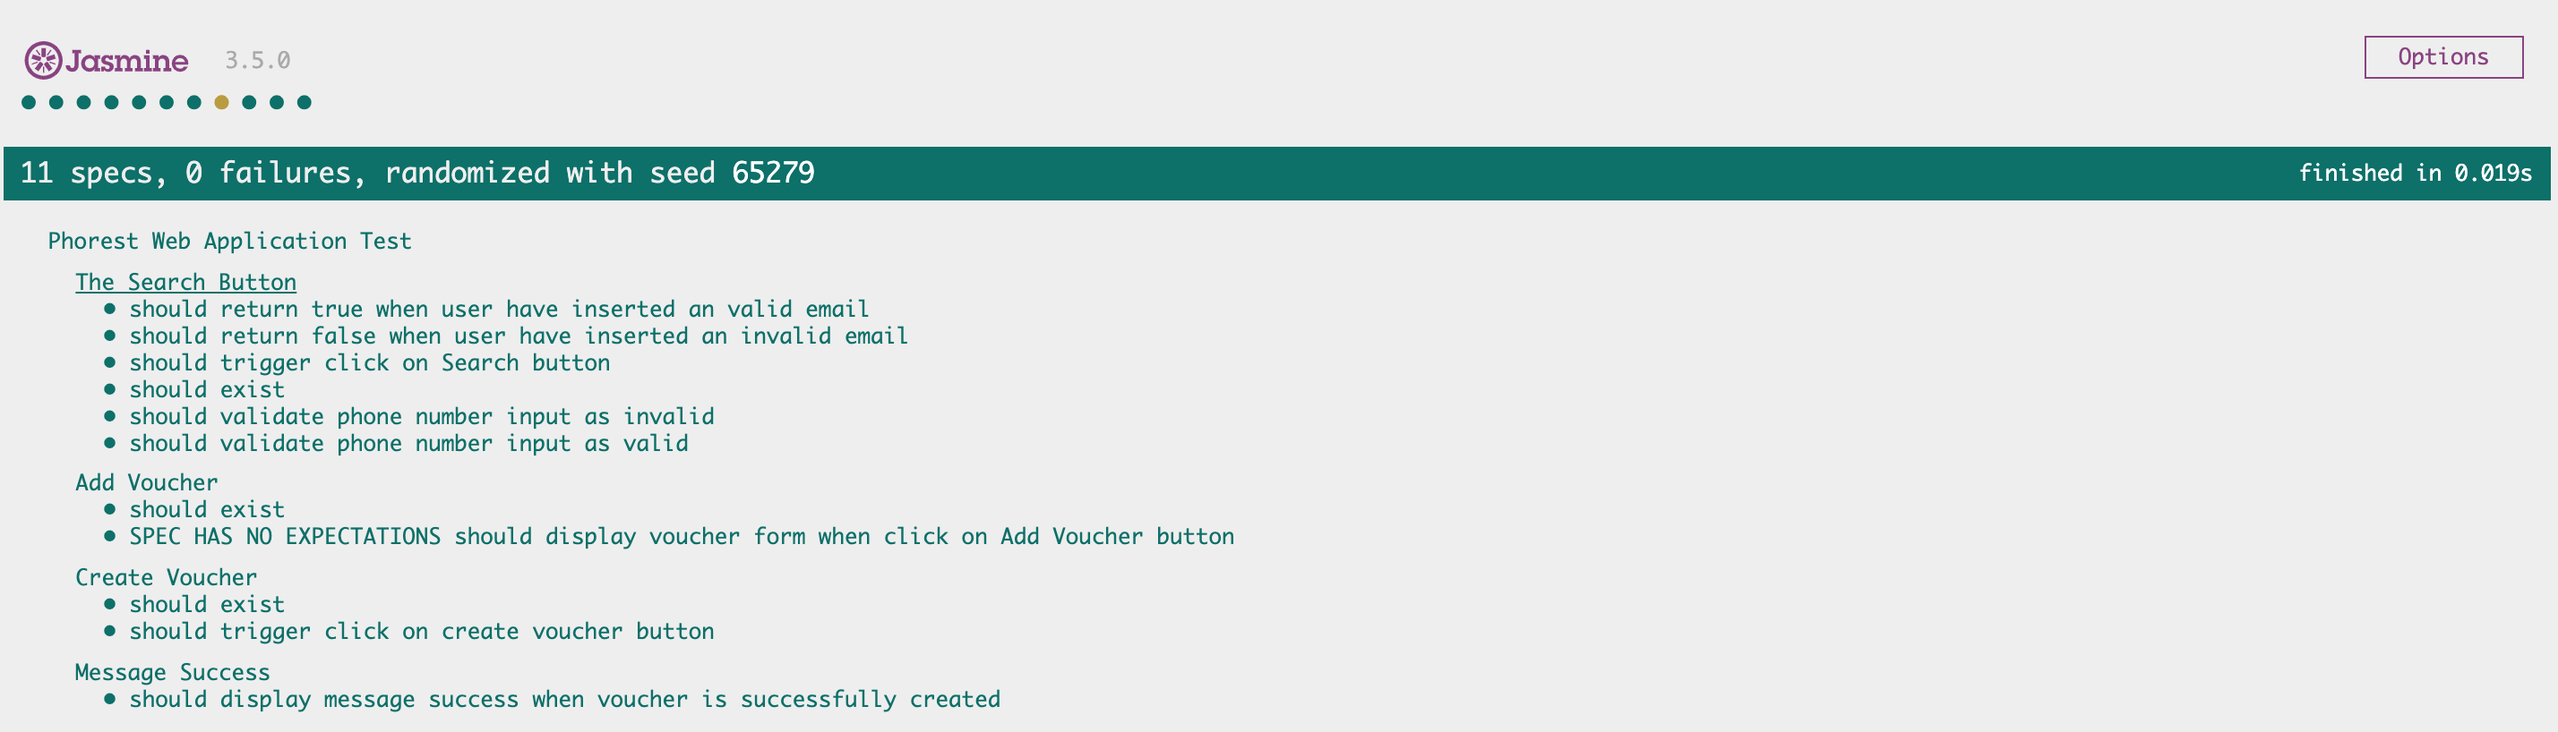
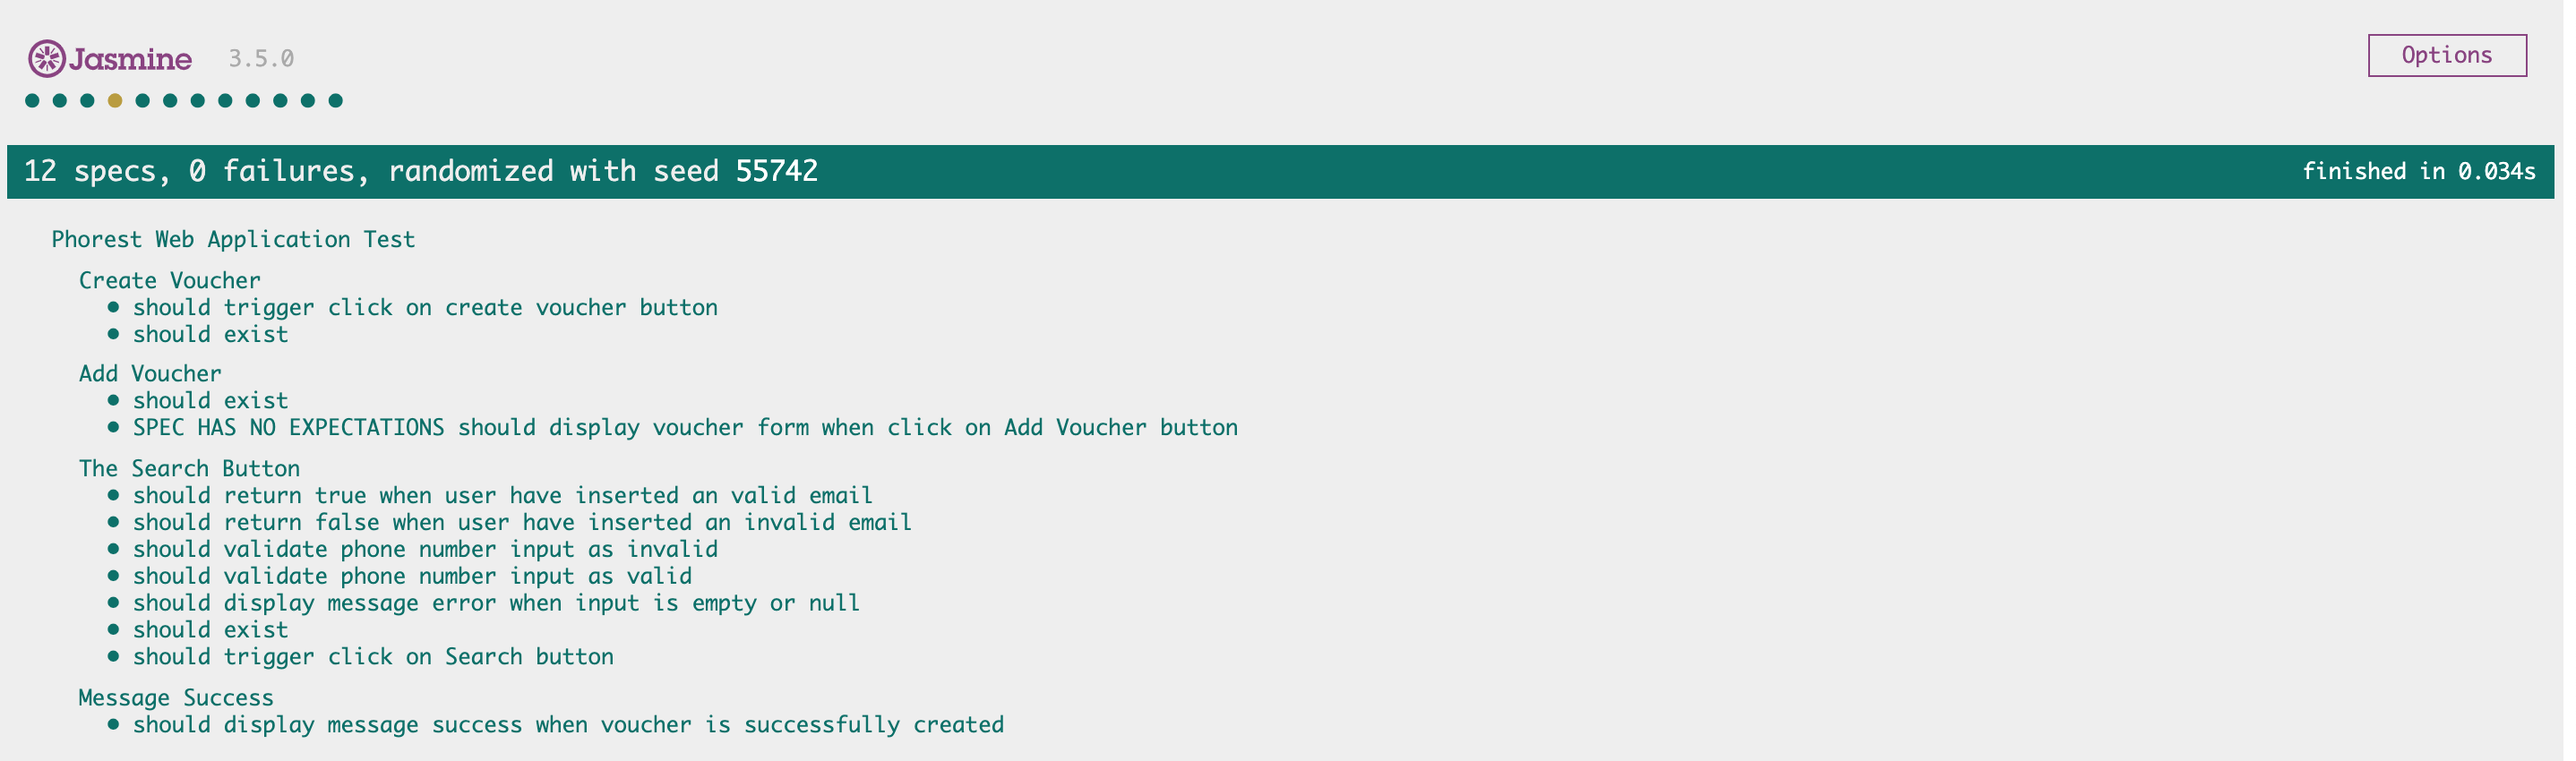
Set up env variable, clean up & refactor code, update readme

diff --git a/assets/js/main.js b/assets/js/main.js
@@ -1,6 +1,6 @@
-let url = `https://api-gateway-dev.phorest.com/third-party-api-server/api/business/eTC3QY5W3p_HmGHezKfxJw/client?`;
-let username = "global/cloud@apiexamples.com";
-let password = "VMlRo/eh+Xd8M~l";
+let url = env.url;
+let username = env.username;
+let password = env.password;
 
 //BTNS
 let btnSearch = document.getElementById("search_btn");
@@ -26,9 +26,10 @@ searchInput.addEventListener("keyup", (e) => {
 
 //SEARCH BUTTON
 btnSearch.addEventListener ('click', () => {
-    searchInputError.classList.add("d-none");
     let searchInputVal = searchInput.value;
     
+    resetForm();
+
     //check if input is empty
     checkIfEmpty(searchInputVal, searchInputError);
 
@@ -44,6 +45,7 @@ btnSearch.addEventListener ('click', () => {
         setTimeout(() => searchInputError.classList.add("d-none"), 4000);
         displayClients.classList.add("d-none");
     }
+
 });
 
 // ADD VOUCHER BUTTON
@@ -60,7 +62,7 @@ let displayFormVoucher = (name, branch, client) => {
         voucherForm.classList.remove("d-none");
         voucherForm.scrollIntoView();
     }
-}
+};
 
 //CREATE VOUCHER BUTTON
 btnCreateVoucher.addEventListener('click', () => {
@@ -85,6 +87,14 @@ btnCreateVoucher.addEventListener('click', () => {
     }
 });
 
+// RESET AND HIDE VOUCHE FORM ON SEACH
+let resetForm = () => {
+    if (!voucherForm.classList.contains("d-none")) {
+        voucherForm.classList.add("d-none");
+    }
+    voucherForm.reset();
+};
+
 //CHECK IF INPUT IS BLANk
 let checkIfEmpty = (text, el) => {
     if(text == "" || text == null ){
@@ -99,10 +109,10 @@ let checkIfEmpty = (text, el) => {
 let validateEmail = (email) => {
     const re = /^(([^<>()\[\]\\.,;:\s@"]+(\.[^<>()\[\]\\.,;:\s@"]+)*)|(".+"))@((\[[0-9]{1,3}\.[0-9]{1,3}\.[0-9]{1,3}\.[0-9]{1,3}\])|(([a-zA-Z\-0-9]+\.)+[a-zA-Z]{2,}))$/;
     return re.test(String(email).toLowerCase());
-}
+};
 
 //VALIDATE PHONE NUMBER ON INPUT
-let validatePhone = (field) => (field.match(/^\d/)) ? true : false
+let validatePhone = (field) => (field.match(/^\d/)) ? true : false;
 
 //DISPLAY MESSAGE SUCCESS
 let messageSuccess = () => {
@@ -115,7 +125,7 @@ let messageSuccess = () => {
     clientsContainer.remove();
     voucherContainer.remove();
     setTimeout(() => location.reload(), 6000);
-}
+};
 
 //GET LIST OF CLIENTS
 const populateClients = (resp) => {
@@ -151,7 +161,7 @@ let getAllData = (url) => {
         alert("Woops, there was an error making the request."); 
     };
     xhr.send();
-}
+};
 
 //POST REQUEST //GET VOUCHER API
 let createVoucher = (data) => {
@@ -168,4 +178,4 @@ let createVoucher = (data) => {
         alert("Woops, there was an error making the request."); 
     };
     xhr.send(data);
-}
+};

diff --git a/testing/automated/specs/specs.js b/testing/automated/specs/specs.js
@@ -26,18 +26,6 @@ describe("Phorest Web Application Test", () => {
 
     describe("The Search Button", () => {
 
-        beforeEach(() => {
-            $("#search_btn").click();
-            let searchInput = $("#search_btn").value;
-            let searchInputError = document.getElementById("search_input_error");
-            
-            if (searchInput == "" ||  searchInput == null) {
-                searchInputError.classList.add("d-none");
-                expect(searchInput).toHaveValue();
-                expect(searchInputError).toHaveClass("d-none");
-            } 
-        });
-
         it("should exist", () => {
             expect($("search_btn")).toBeDefined();
         }); 
@@ -49,6 +37,17 @@ describe("Phorest Web Application Test", () => {
             expect(spyEvent).toHaveBeenTriggered();
         });
      
+        it("should display message error when input is empty or null", () => {
+            $("#search_btn").click();
+            let searchInput = $("#search_btn").value;
+            let searchInputError = document.getElementById("search_input_error");
+            if (searchInput == "" ||  searchInput == null) {
+                searchInputError.classList.add("d-none");
+                expect(searchInput).toHaveValue();
+                expect(searchInputError).toHaveClass("d-none");
+            } 
+        });
+
         it("should return false when user have inserted an invalid email", () => {
             const invalidEmail = 'camila@';
             let resultEmail = validateEmail(invalidEmail);

diff --git a/index.html b/index.html
@@ -39,14 +39,14 @@
                             <th scope="col">Last Name</th>
                             <th scope="col">Mobile</th>
                             <th scope="col">Email</th>
-                            <th scope="col" class="th-voucher">Voucher</th>
+                            <th scope="col">Voucher</th>
                         </tr>
                         </thead>
                         <tbody id="info_clients">
                         </tbody>
                     </table>
                 </div>
-                <div id="add_voucher_error" class="w-75 mx-auto text-center alert alert-danger mt-5 d-none"><small>This voucher cannot be created!</small>
+                <div id="add_voucher_error" class="w-75 mx-auto text-center alert alert-danger mt-5 d-none"><small>The voucher for this user cannot be created!</small>
                 </div>
                 <input type="hidden" id="client_id" value="">
                 <input type="hidden" id="branch_id" value="">
@@ -88,9 +88,10 @@
                 <h6 class="align-content-center">&copy; Copyright</h6>
             </div>
         </footer>
-
-        <!-- JavaScript -->
+      
+        <!-- JavaScript Depedencies -->
         <script src="assets/js/moment.min.js"></script>
+        <script src="assets/js/config.js"></script>
         <script src="assets/js/main.js"></script>
     </body>
 </html>

diff --git a/assets/css/style.css b/assets/css/style.css
@@ -65,10 +65,6 @@ footer {
     margin: 80px 40px;
 }
 
-.th-voucher {
-    text-align: center;
-}
-
 /* ------------------------- Create Voucher */
 .form-container {
     border: 5px solid #c3afd0;
@@ -96,6 +92,11 @@ footer {
 
 .m150 {
     margin-bottom: 80px;
+}
+
+/* ------------------------- Override Bootstrap */
+.btn.disabled, .btn:disabled {
+    pointer-events: none;
 }
 
 /* ------------------------- media queries */

diff --git a/testing/automated/jasmine.html b/testing/automated/jasmine.html
@@ -11,9 +11,6 @@
     />
   </head>
   <body>
-    <!-- Your Source Code (this must come before the Jasmine files!) -->
-    <script src="scripts/tests.js"></script>
-
     <!-- jQuery CDN -->
     <script
       src="https://code.jquery.com/jquery-3.4.1.min.js"

diff --git a/assets/js/config_sample.js b/assets/js/config_sample.js
@@ -1,0 +1,8 @@
+//rename this file to config.js in order to work sucessfully 
+//add the variables values below
+
+var env = {
+    url  : "",
+    username : "",
+    password  : ""
+};

diff --git a/README.md b/README.md
@@ -14,6 +14,8 @@
 5. [**Deployment**](#deployment)
     - [**Local Deployment**](#local-deployment)
     - [**Remote Deployment**](#remote-deployment)
+6. [**Enviroment Variables**](#environment-variable)
+   
 
 ## Problem Description
 Phorest has a platform for our customers to build their own applications on.
@@ -85,7 +87,7 @@ Automated were conducted in this project test.
 ### Automated Testing
 I used [Jasmine 3.5.0](https://jasmine.github.io/) in conjunction with [jasmine-jquery 2.1.1](https://github.com/velesin/jasmine-jquery) to build all automated tests (test-driven development). These tests can be found in the [testing/automated(../blob/master/Testing.md) folder.
 
-There are **11** tests in my specs, all successfully passing, with **0** failures.
+There are **12** tests in my specs, all successfully passing, with **0** failures.
 
 ![Jasmine Spec Results](testing/automated/jasmine-test.png "Jasmine Spec Results")
 
@@ -103,6 +105,7 @@ There are **11** tests in my specs, all successfully passing, with **0** failure
 
 - should exist
 - should trigger click on Search button
+- should display message error when input is empty or null
 - should return false when user have inserted an invalid email
 - should return true when user have inserted an valid email
 - should validate phone number input as valid
@@ -110,7 +113,7 @@ There are **11** tests in my specs, all successfully passing, with **0** failure
 </details>
 
 <details>
-<summary><b>CLICK HERE</b>Add Voucher</b></summary>
+<summary><b>CLICK HERE</b> to see tests on Add Voucher</b></summary>
 
 - should exist
 - should display voucher form when click on Add Voucher button
@@ -118,7 +121,7 @@ There are **11** tests in my specs, all successfully passing, with **0** failure
 </details>
 
 <details>
-<summary><b>CLICK HERE</b>Create Voucher</b></summary>
+<summary><b>CLICK HERE</b> to see tests on Create Voucher</b></summary>
 
 - should exist
 - should trigger click on create voucher button
@@ -126,7 +129,7 @@ There are **11** tests in my specs, all successfully passing, with **0** failure
 </details>
 
 <details>
-<summary><b>CLICK HERE</b>Message Success</b></summary>
+<summary><b>CLICK HERE</b> to see tests on Message Success</b></summary>
 
 - should display message success when voucher is successfully created
 
@@ -182,3 +185,26 @@ Congratulations! Your project should be deployed successfully on GitHub Pages! :
 
 *** 
 
+
+## Environment Variables
+Steps to set up environmets:
+
+1. Create `config.js` file inside `js` folder,
+2. Add `<script src="assets/js/config.js"></script>` on index.html,
+3. Add `config.js` file to `.gitignore` file using path `assets/js/config.js`,
+4. On `config.js` file add desired variables as per example below:
+    `var env = {
+        url  : "",
+        username : "",
+        password  : ""
+    };`
+5. On `main.js` file pass the varibles as per example below:
+    `let url = env.url;
+    let username = env.username;
+    let password = env.password;`
+6.  Create `config_sample.js` file inside `js` folder and rename this file to `config.js` when running it locally in order to work sucessfully (Do not add this file to `.gitignore`)
+
+
+##### back to [top](#table-of-contents)
+
+*** 
